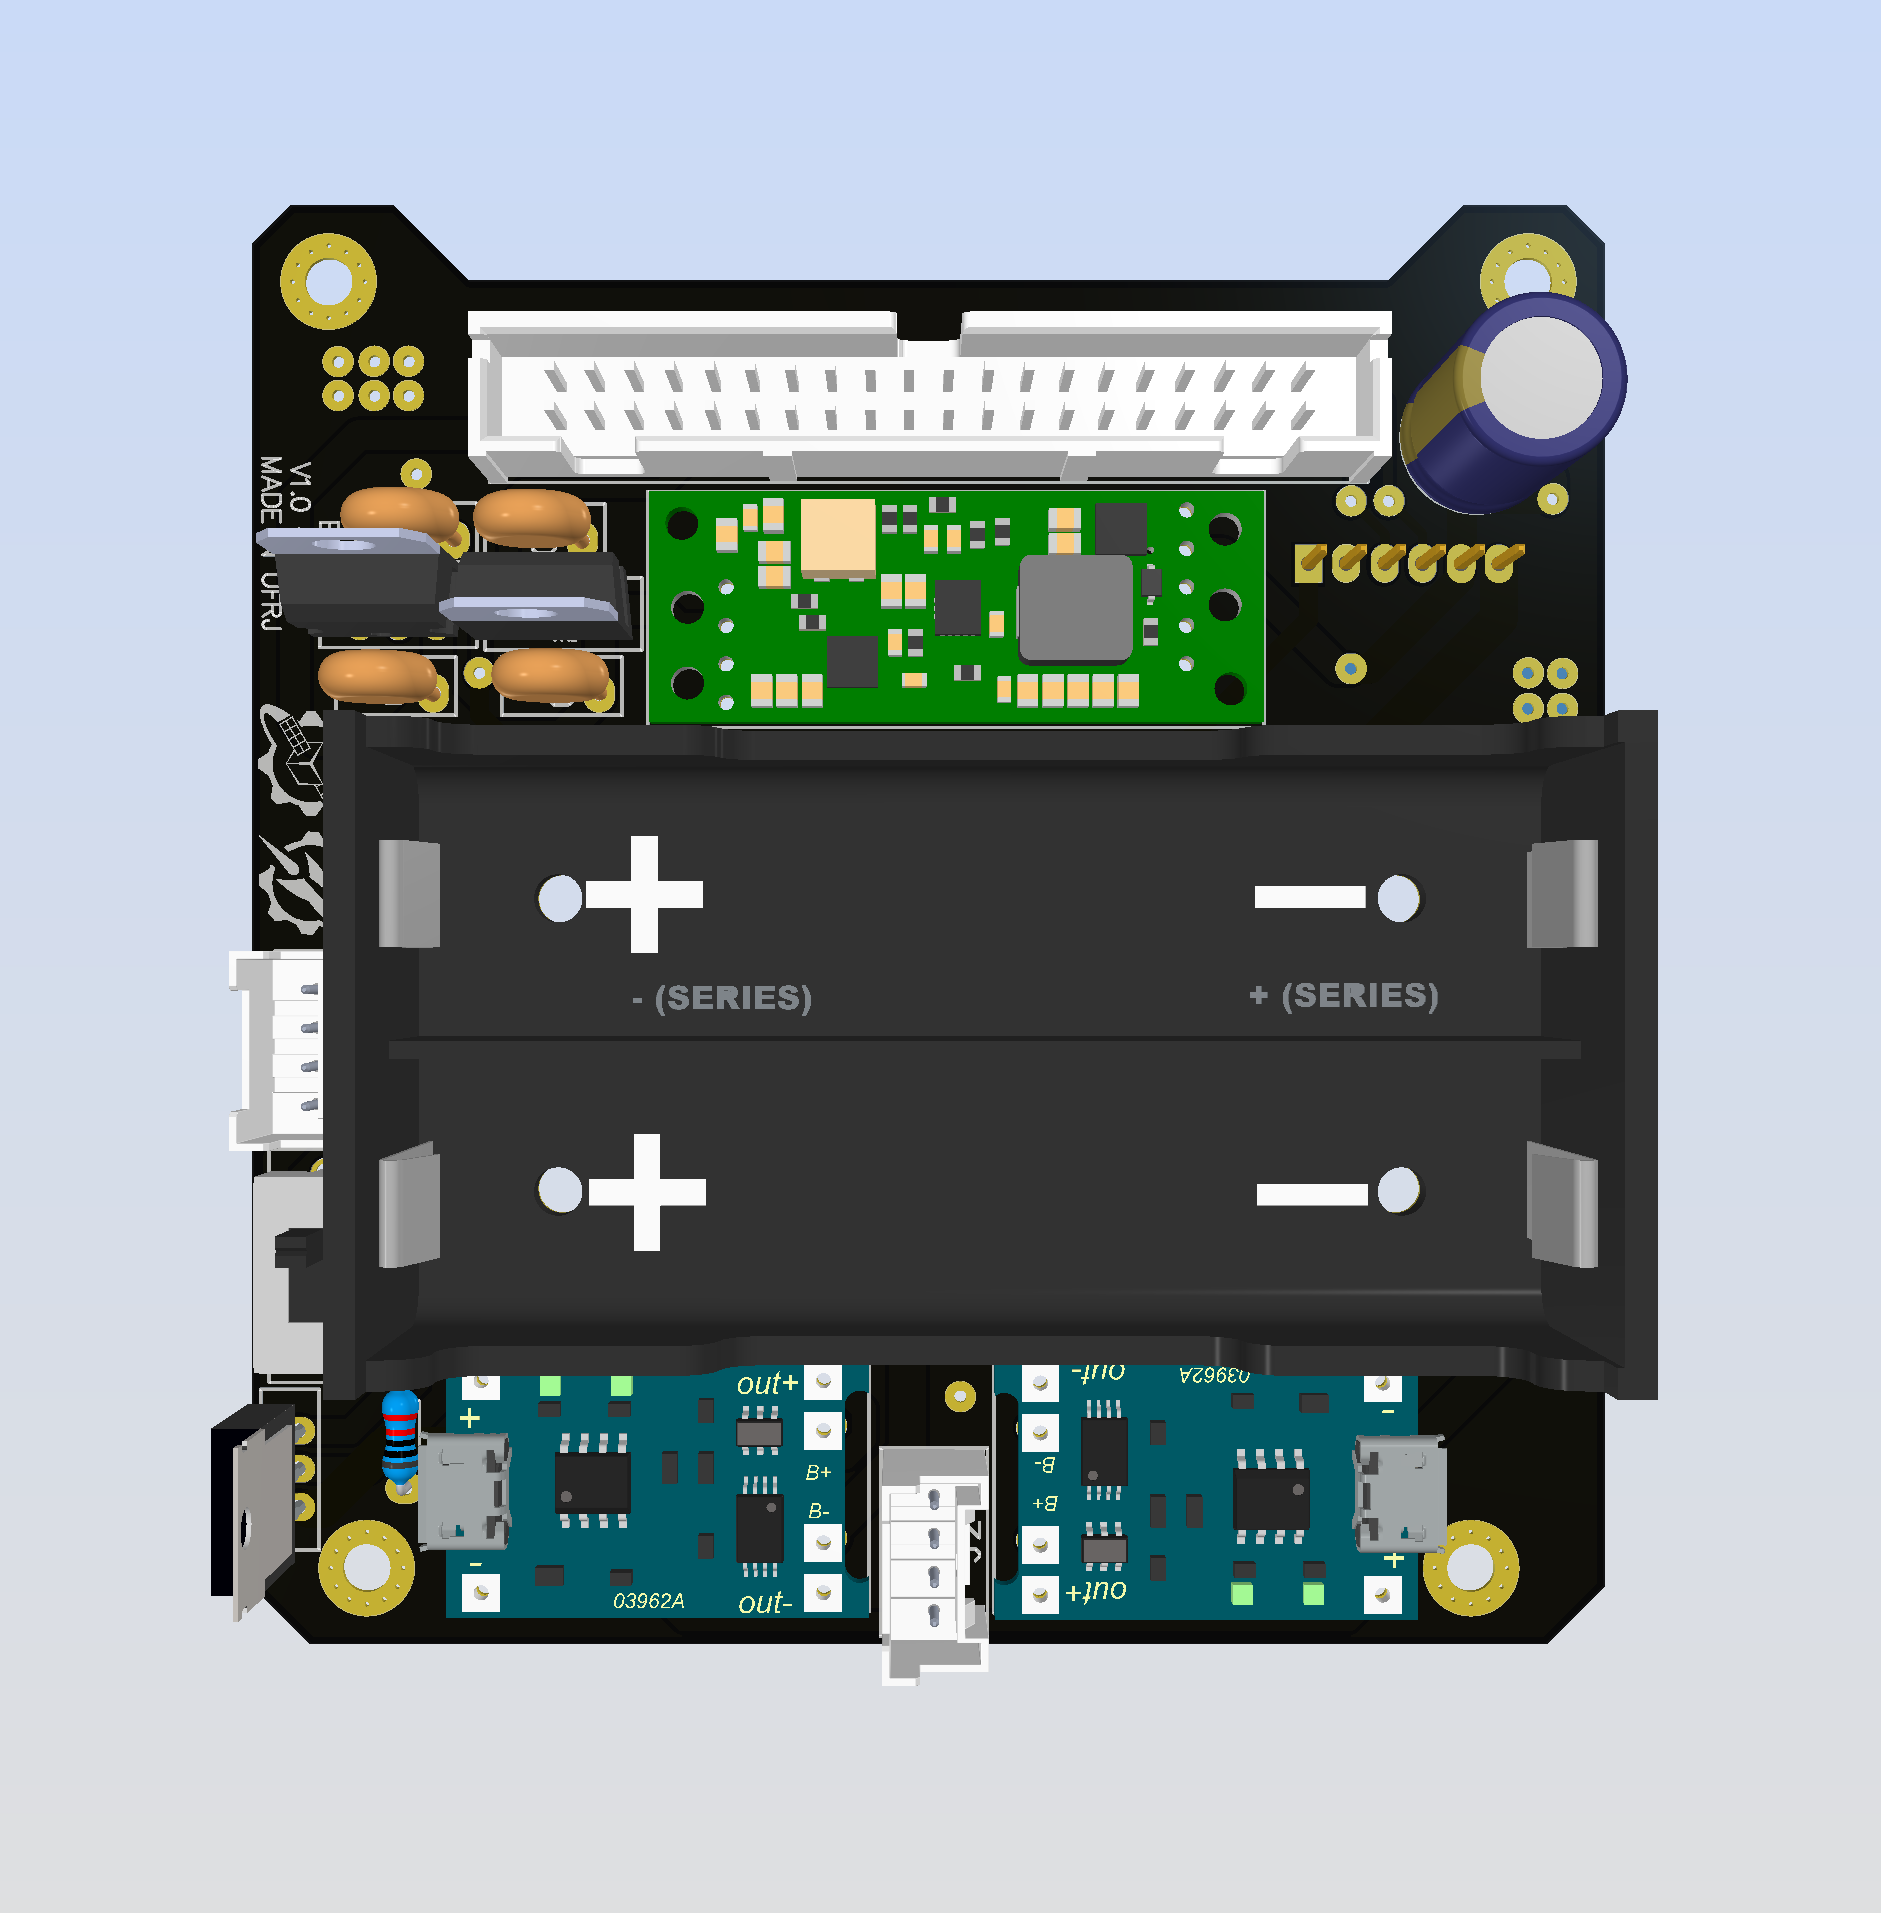
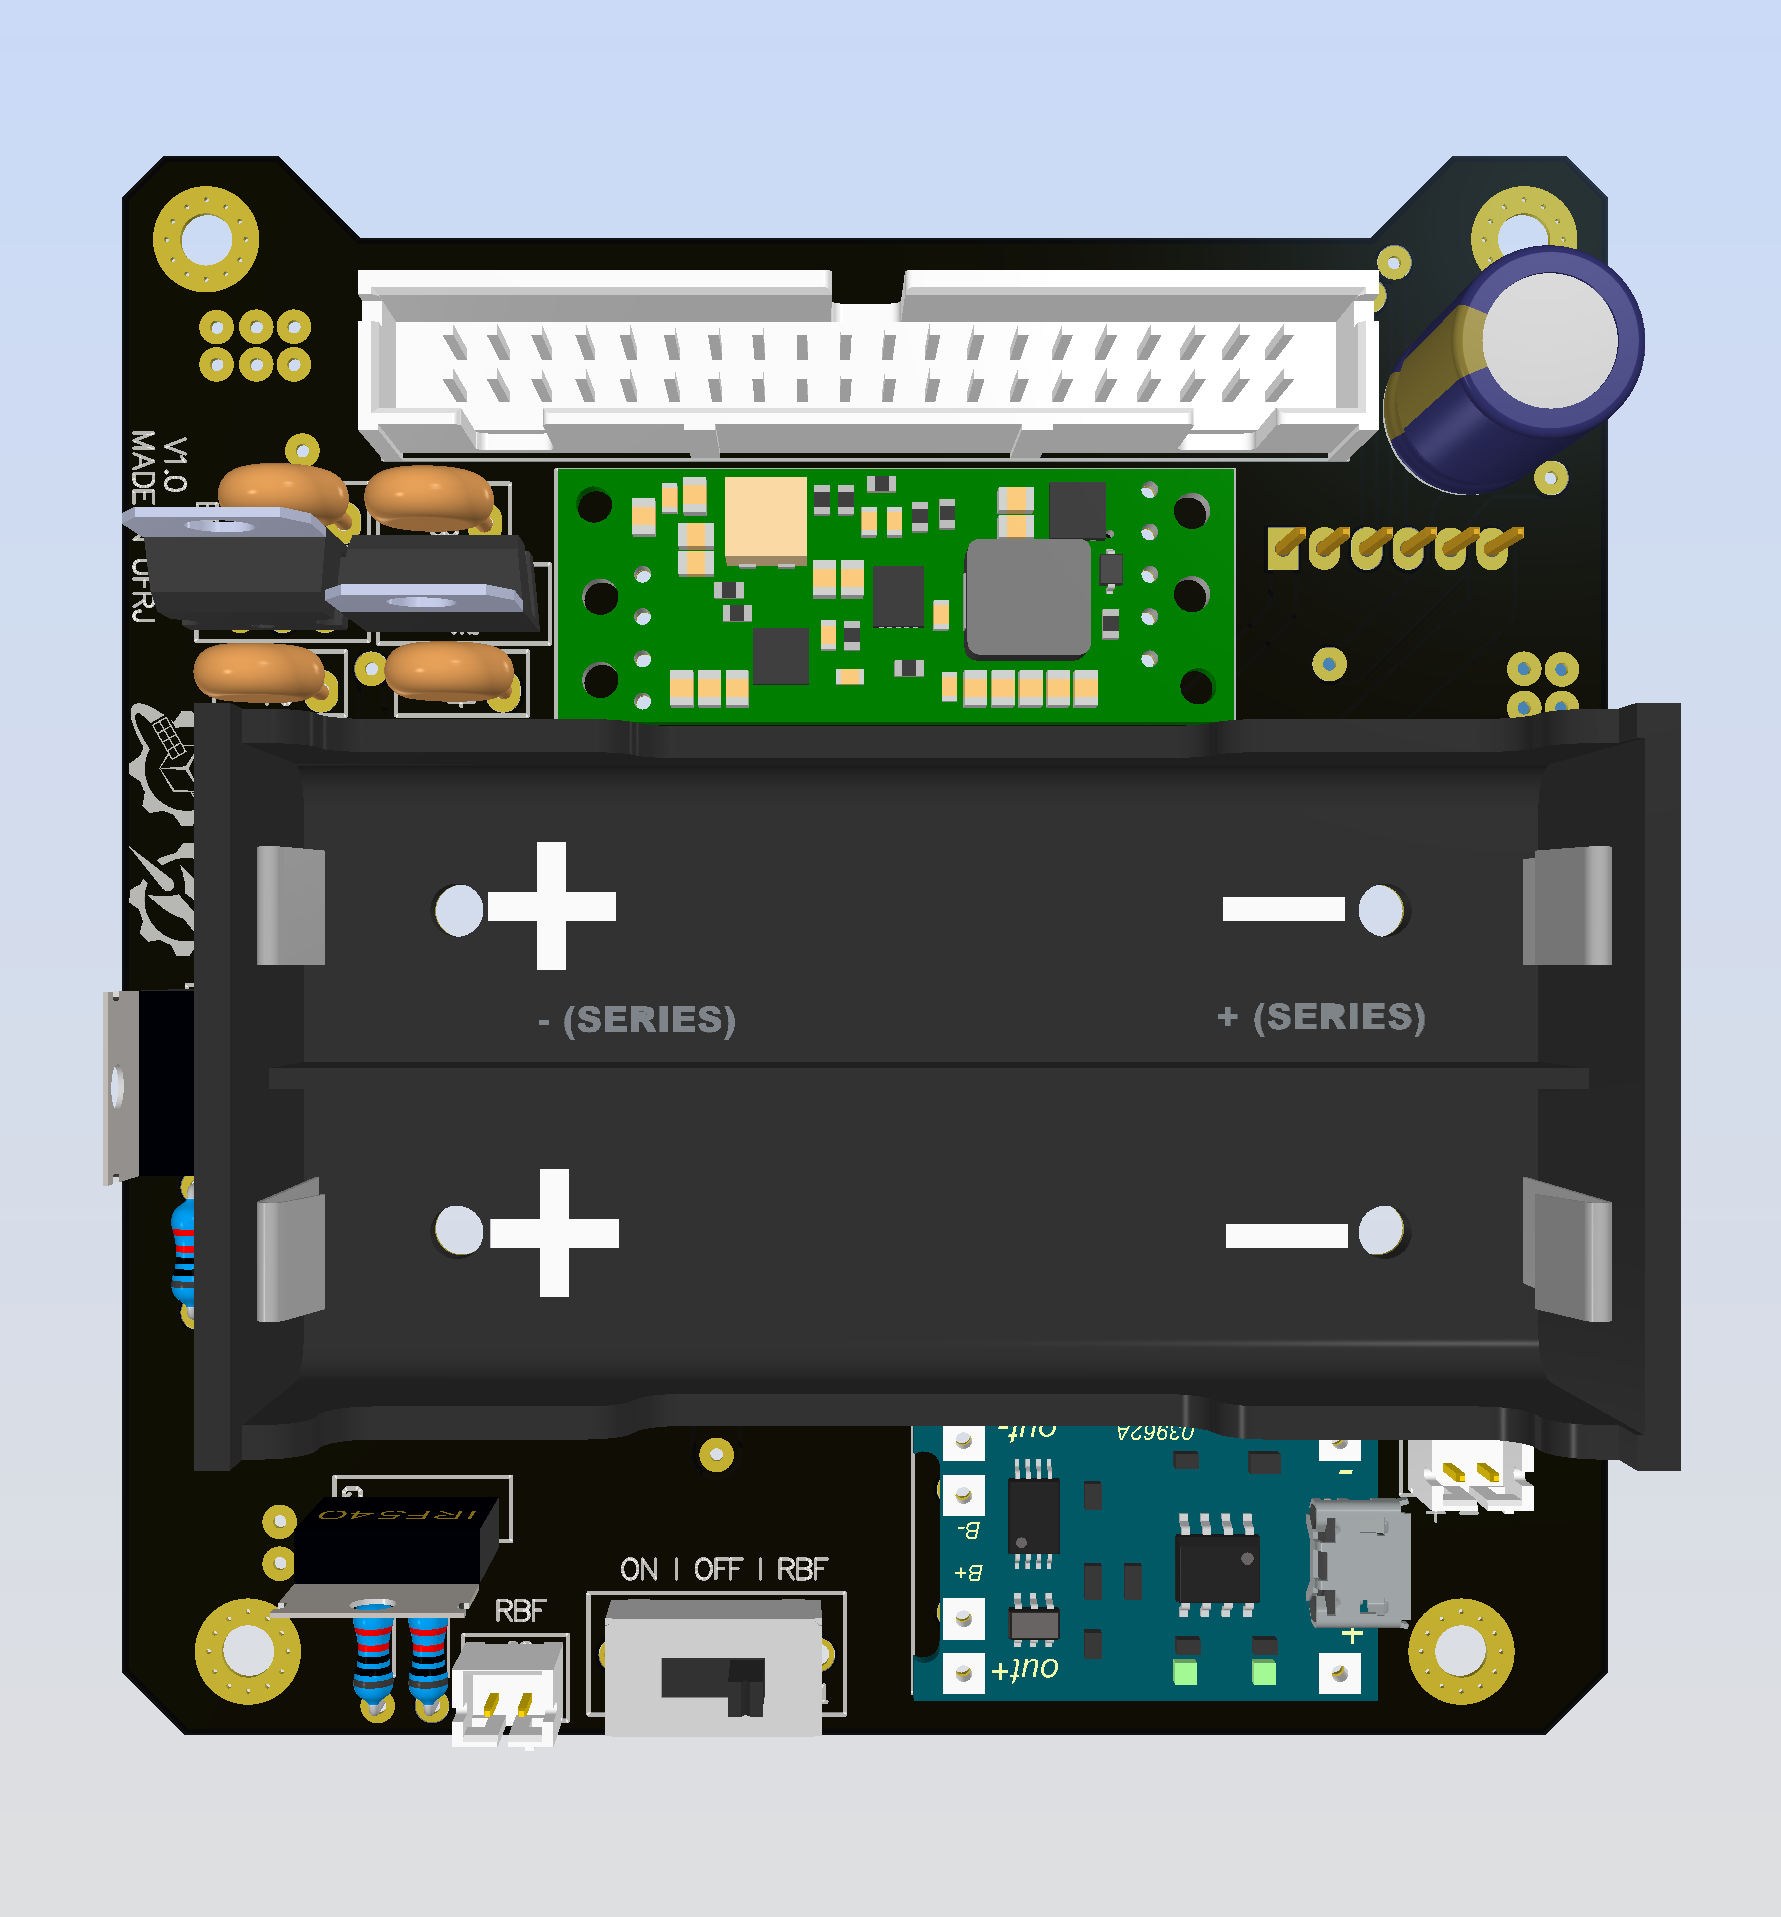
added new features

diff --git a/my-website/sidebars.js b/my-website/sidebars.js
@@ -4,7 +4,8 @@ module.exports = {
             Reuniões: [
                 {
                     '2021': ['reuniao/21/0108r', 'reuniao/21/0113r', 'reuniao/21/0120r', 'reuniao/21/0127r',
-                             'reuniao/21/0210r', 'reuniao/21/0217r', 'reuniao/21/0224r', 'reuniao/21/0303r'
+                             'reuniao/21/0210r', 'reuniao/21/0217r', 'reuniao/21/0224r', 'reuniao/21/0303r',
+                             'reuniao/21/0310r'
                     ],    
                 },
             ],
@@ -17,7 +18,9 @@ module.exports = {
                             Placas: ['aurorav2/hardware/placas/eps', 'aurorav2/hardware/placas/cdhs',
                                      'aurorav2/hardware/placas/rec', 'aurorav2/hardware/placas/cam',
                                 {
-                                    Integração: ['aurorav2/hardware/placas/integracao/epscdhs']
+                                    Integração: ['aurorav2/hardware/placas/integracao/epscdhs',
+                                    'aurorav2/hardware/placas/integracao/consumo'
+                                ]
                                 } 
                             ],
                         },

diff --git a/my-website/docs/aurorav2/hardware/placas/eps.md b/my-website/docs/aurorav2/hardware/placas/eps.md
@@ -7,11 +7,11 @@ sidebar_label: EPS
 ## Objetivo
 Duas funções são exercidas simultaneamente nesta placa: (1) fornecimento de energia e (2) regulação desta energia. 
     
-1. Duas baterias de lithium-ion (li-ion) modelo 18650 e de voltagem nominal 3.7v são usadas em paralelo. Em conjunto, dois módulos TP4056 são usados para a recarga dessas baterias. É utilizado também um módulo sensor de corrente (INA219) para que sejam avaliadas a todo momento a corrente e a tensão geradas para o circuito.
+1. Duas baterias de lithium-ion (li-ion) modelo 18650 e de voltagem nominal 3.7v são usadas em paralelo. Em conjunto, um módulo TP4056 é usado para a recarga desse conjunto de baterias. É utilizado também um módulo sensor de corrente (INA219) para que sejam avaliadas a todo momento a corrente e a tensão geradas para o circuito.
     
 2. Três tensões diferentes são utilizadas por componentes da aviônica. Essas tensões são obtidas no EPS através de três diferentes reguladores de tensão. São utilizados o step-up regulator U3V709 para gerar 9V, o regulador de tensão LM7805 para gerar 5V e o regulador de tensão LD1117V33 para gerar 3.3V. 
 
-Há também um sistema com um MOSFET e duas chaves, uma interna ao circuito e outra externa ao foguete. É a partir desse sistema, chamado de Remove Before Flight (RBF), que a aviônica pode ser mantida desligada enquanto estiver dentro do foguete e só seja acionada no momento do lançamento.
+Há também um sistema com dois MOSFETs e duas chaves, uma interna ao circuito e outra externa ao foguete. É a partir desse sistema, chamado de Remove Before Flight (RBF), que a aviônica pode ser mantida desligada enquanto estiver dentro do foguete e só seja acionada no momento do lançamento.
 
 ## Componentes
 Os componentes da placa são:
@@ -19,17 +19,17 @@ Os componentes da placa são:
 |  Componente               |      Qtd      |  Obs  |
 | -------------             |  -----------  |  ------ |
 | 40 pins flat connector    |       1       | Conector do barramento |
-| TP4056                    |       2       | Carrega baterias |
+| TP4056                    |       1       | Carrega baterias |
 | Battery Holder            |       1       | - |
 | 18650 Battery             |       2       | 3.7V |
 | Mini-lock connector       |       2       | Para carregar baterias e RBF |
 | Slide switch              |       1       | On/Off/RBF |
-| MOSFET                    |       1       | RBF |
+| MOSFETs                   |       2       | 1x P55N06, 1x IRF9530 |
 | INA219                    |       1       | Mede tensão e corrente |
 | U3V709                    |       1       | Step-up 3.7V -> 9V |
 | LM7085M                   |       1       | Step-down 9V -> 5V |
 | LD1117V33                 |       1       | Step-down 9V -> 3.3V |
-| Resistor                  |       1       | 1x 10kΩ |
+| Resistor                  |       4       | 3x 10kΩ, 1x 100Ω |
 | Capacitor                 |       5       | 1x 33uF, 1x 0.22uF, 1x 0.1uF, 1x 100uF, 1x 10uF |
 
 ## Esquemático
@@ -41,6 +41,9 @@ Os componentes da placa são:
 
 ### Versão Atual
 ![img](/img/docs/aurora/hardware/eps_pcb.png)
+
+## RBF
+
 
 ## Testes no protótipo
 ### Componentes soldados

diff --git a/my-website/docs/reuniao/21/reuniao_0310.md b/my-website/docs/reuniao/21/reuniao_0310.md
@@ -1,0 +1,58 @@
+---
+id: 0303r
+title: Reunião 03/03/21
+sidebar_label: 03/03/21
+---
+
+## Informativos
+- JICTAC: visita ao laboratório pra realização dos testes necessários para a apresentação
+    - Elaboração de slides
+    - Aproveitar visita ao laboratório e: estudar Stratologger e Pion (pinagem, chave rbf, ver se dá pra dessoldar borne e soldar pinos); ver quantos adaptadores de SD, U3V70F9, TP4056, LM7805 E LD1117V33 nós temos. 
+- Compra de componentes: diodos, resistores e mosfets (REC e EPS), conectores, buzzer, flat cable 40 pinos e o que mais não tivermos.
+
+## Feedback Tarefas
+### Daniel
+- Fizemos avaliação de novo microcontrolador. 
+- Ainda não foi elaborado diagrama de classes; Daniel focou no código necessário pra JICTAC
+
+### Fábio
+- Problemas na comunicação com a Sats
+- Recebeu preço da válvula solenóide. 8k :(
+    - Fez matriz de decisão de novas solenóides da Tameson
+- Fez board e schem do pitot
+
+### Gabriel
+- Fez circuito do RBF e da REC e simulou
+- Fez alterações no Altium da EPS, REC e RECB com o novo circuito já simulado
+- Alterações no PDR
+- Ainda não foi elaborado o diagrama de classes
+
+## Novas Tarefas
+### Daniel
+- Montar slides pra JICTAC
+- Visitar laboratório e fazer testes
+    - Montar código do LoRa autônomo
+- Ligar pra Swagelok pedindo orçamento da [válvula esfera](https://www.swagelok.com/en/catalog/Product/Detail?part=SS-45TF8) (perguntar se existe informação sobre torque necessário pra abrir e fechar)
+- Fazer diagrama de classes
+
+### Fábio
+- Marcar reunião com o Marcelo (estruturas sats)
+- Apresentar placa do Pitot pro  Lex e falar sobre como será a  fixação dela.
+    - Fazer alterações na board do Pitot.
+- Mandar email pra GoPro americana e brasileira.
+- Fazer matriz de decisão de servos
+
+### Gabriel
+- Terminar PSCS, RECprototipo e RECBprototipo
+- Comprar componentes
+- Fazer diagrama de classes
+
+## Futuro
+- Já vamos ter os componentes necessários pra prototipagem. Vamos poder fabricar as placas e integrar todas juntas.
+- Fechar integração ECAD + MCAD.
+- Começar software a partir do diagrama de classes.
+- Confirmar sobre cabeamento do pitot
+
+## Referências importantes
+- Regulamento da [IREC](https://www.soundingrocket.org/sa-cup-documents--forms.html)
+- [WaterRockets](http://www.aircommandrockets.com/day179.htm)

diff --git a/my-website/docs/aurorav2/hardware/placas/integracao/epscdhs.md b/my-website/docs/aurorav2/hardware/placas/integracao/epscdhs.md
@@ -116,3 +116,14 @@ Conforme os testes foram sendo realizados, algumas mudanças foram percebidas co
 - Trocar pino do buzzer para o pino 32; Prot:heavy_check_mark: Ofc:heavy_check_mark:
 - Colocar SDO do BMP388 no 3v3; Prot:heavy_check_mark: Ofc Prot:heavy_check_mark:
 - Colocar SDO do GY-91 no GND; Prot:heavy_check_mark: Ofc:heavy_check_mark:
+- Trocar MOSFET do EPS pelo IRF9530; Prot:heavy_check_mark: Ofc:heavy_check_mark:
+- Trocar conectores pelo de pitch 2.0mm:
+    - EPS; Prot:heavy_check_mark: Ofc:heavy_check_mark:
+    - REC; Ofc:heavy_check_mark:
+    - CAM; Ofc:heavy_check_mark:
+- Fazer upload das placas no drive:
+    - EPS; Prot:heavy_check_mark: Ofc:heavy_check_mark:
+    - CDHS; Prot:heavy_check_mark: Ofc:heavy_check_mark:
+    - REC; Prot:x: Ofc:x:
+    - RECB; Prot:x: Ofc:x:
+    - CAM; Prot:x: Ofc:x:

diff --git a/my-website/docs/aurorav2/hardware/placas/integracao/consumo.md b/my-website/docs/aurorav2/hardware/placas/integracao/consumo.md
@@ -1,0 +1,9 @@
+---
+id: consumo
+title: Consumo do Sistema
+sidebar_label: Consumo
+---
+
+<div class="container">
+<iframe src="https://docs.google.com/spreadsheets/d/e/2PACX-1vTHRGadriN0tKc4ZpuebTkjX_TBEA6U4SKnUm9Dge-MR068oY93S7m-u1IcnoRR2HV9yY0PTg1eKb8J/pubhtml?gid=588421123&amp;single=true&amp;widget=true&amp;headers=false&amp;chrome=true" frameborder="0" width="100%" height="1300px"></iframe>
+</div>
